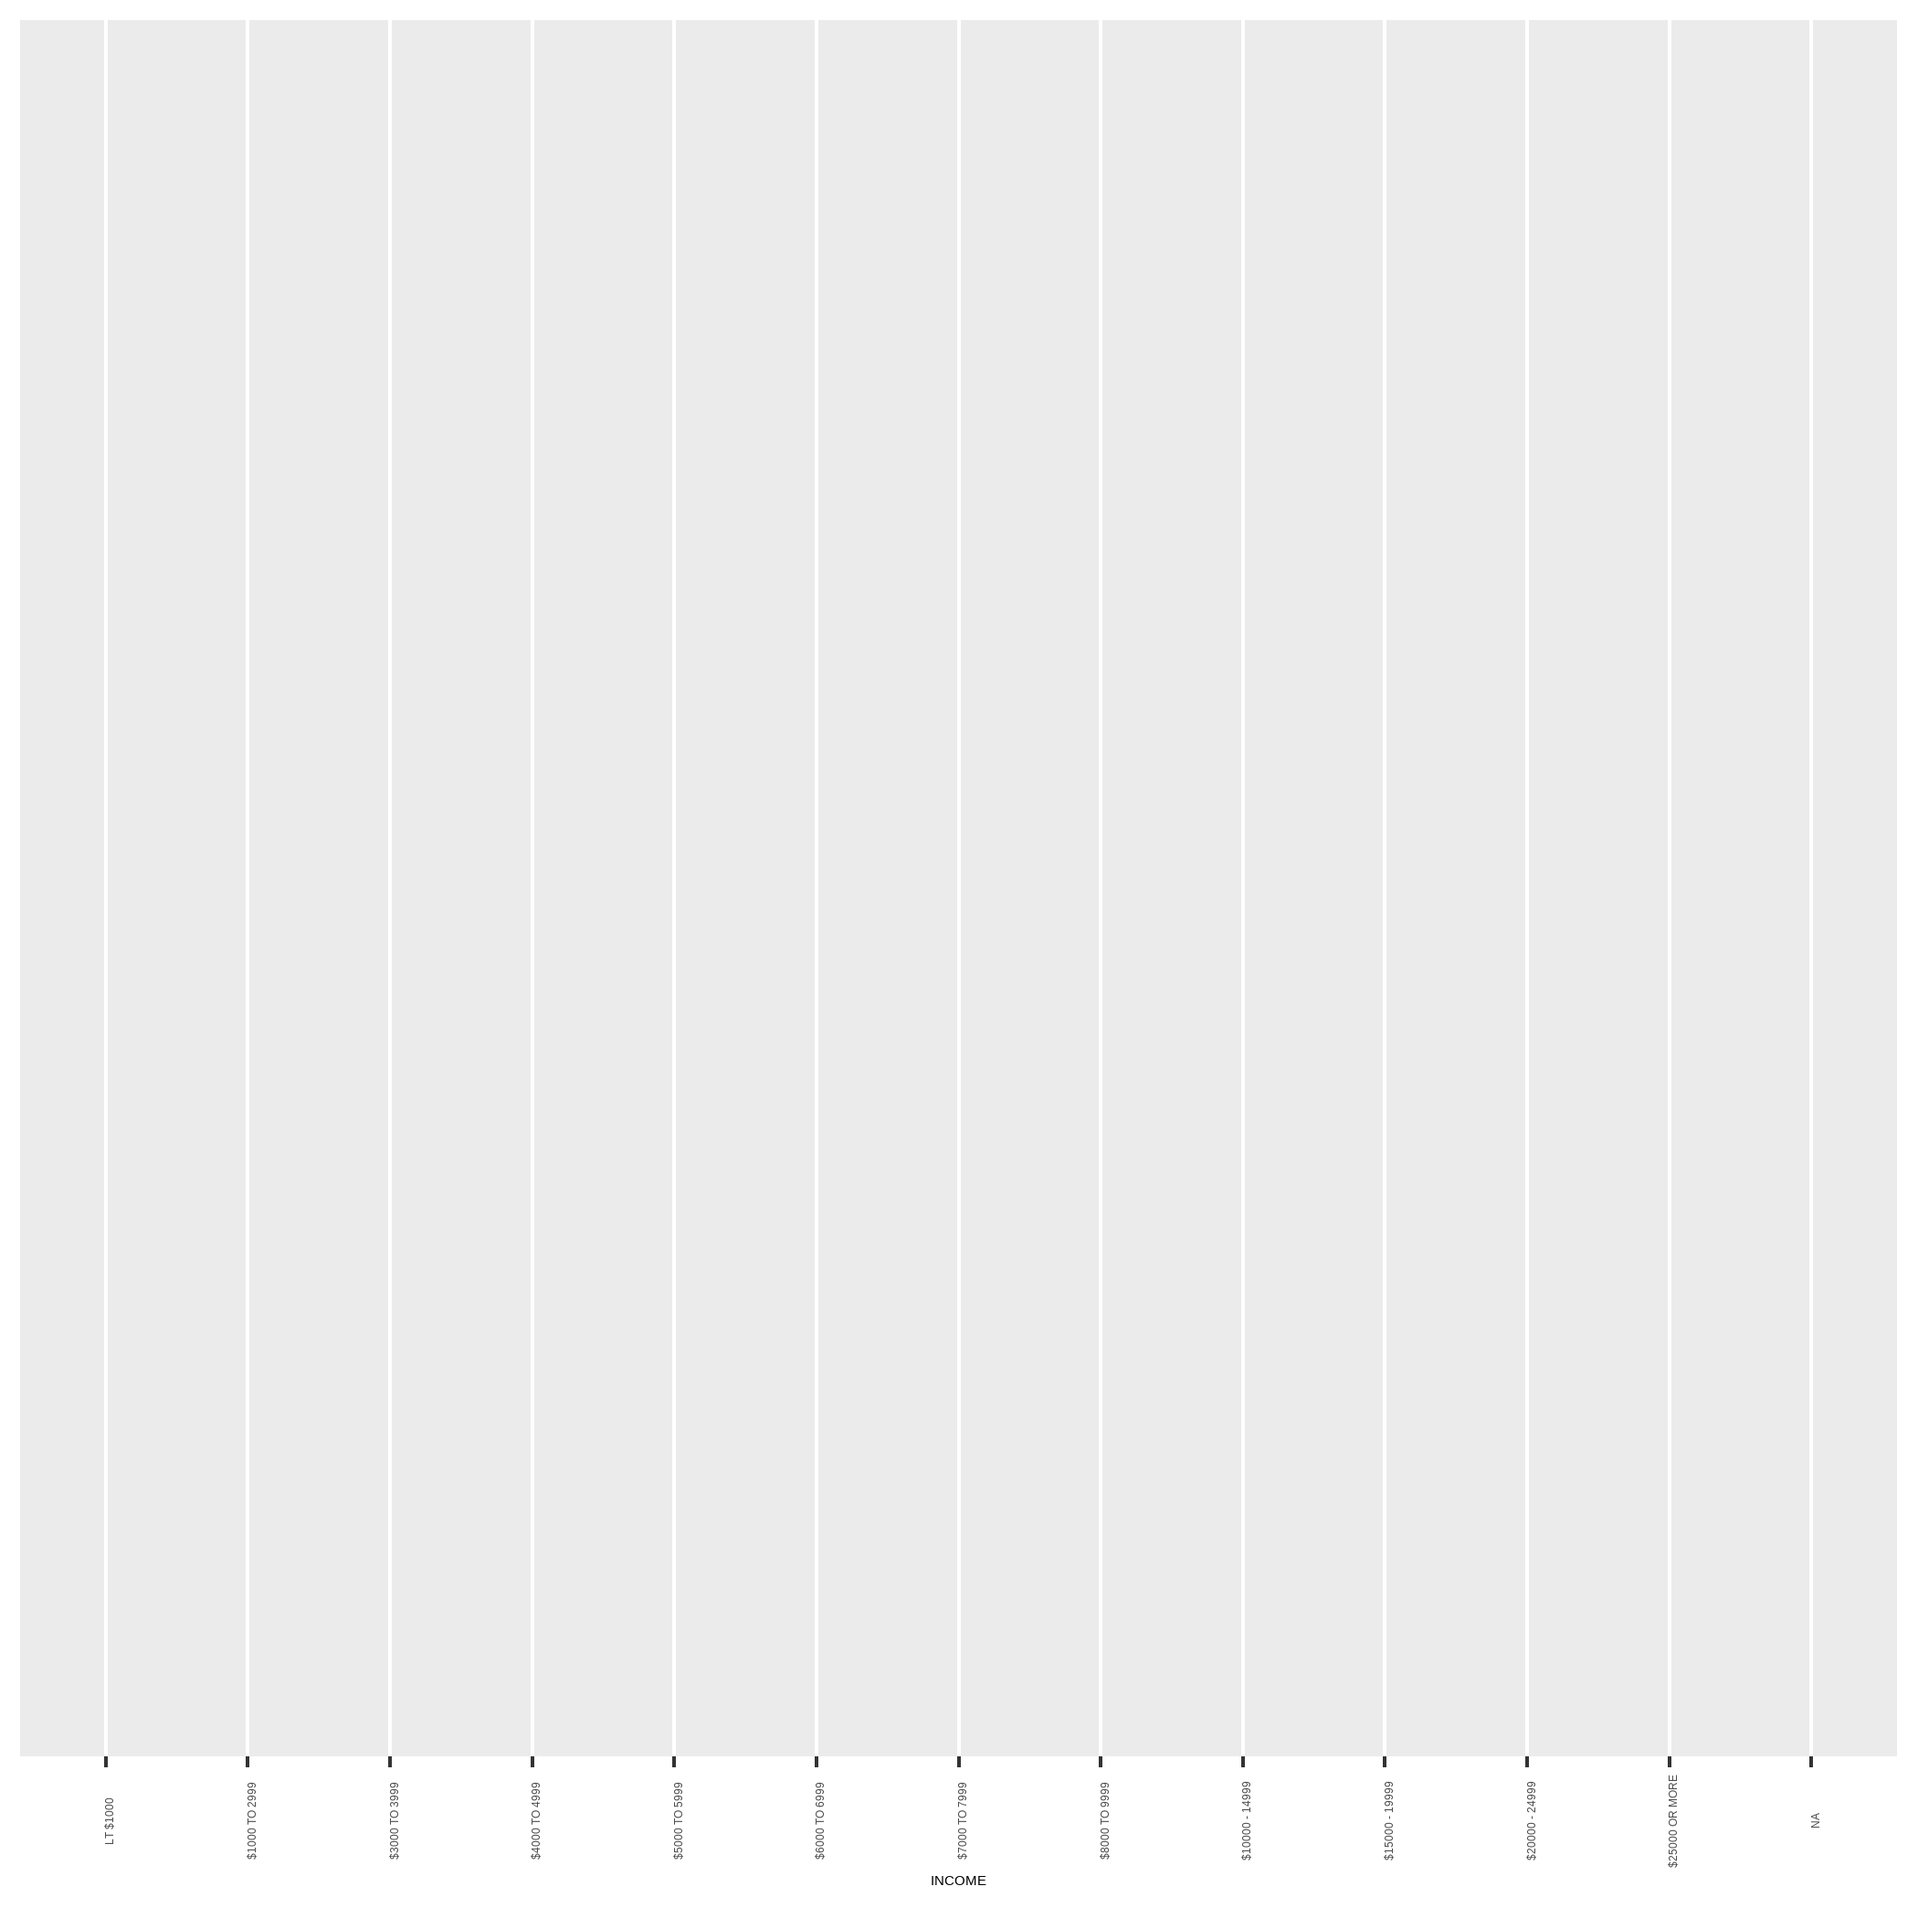
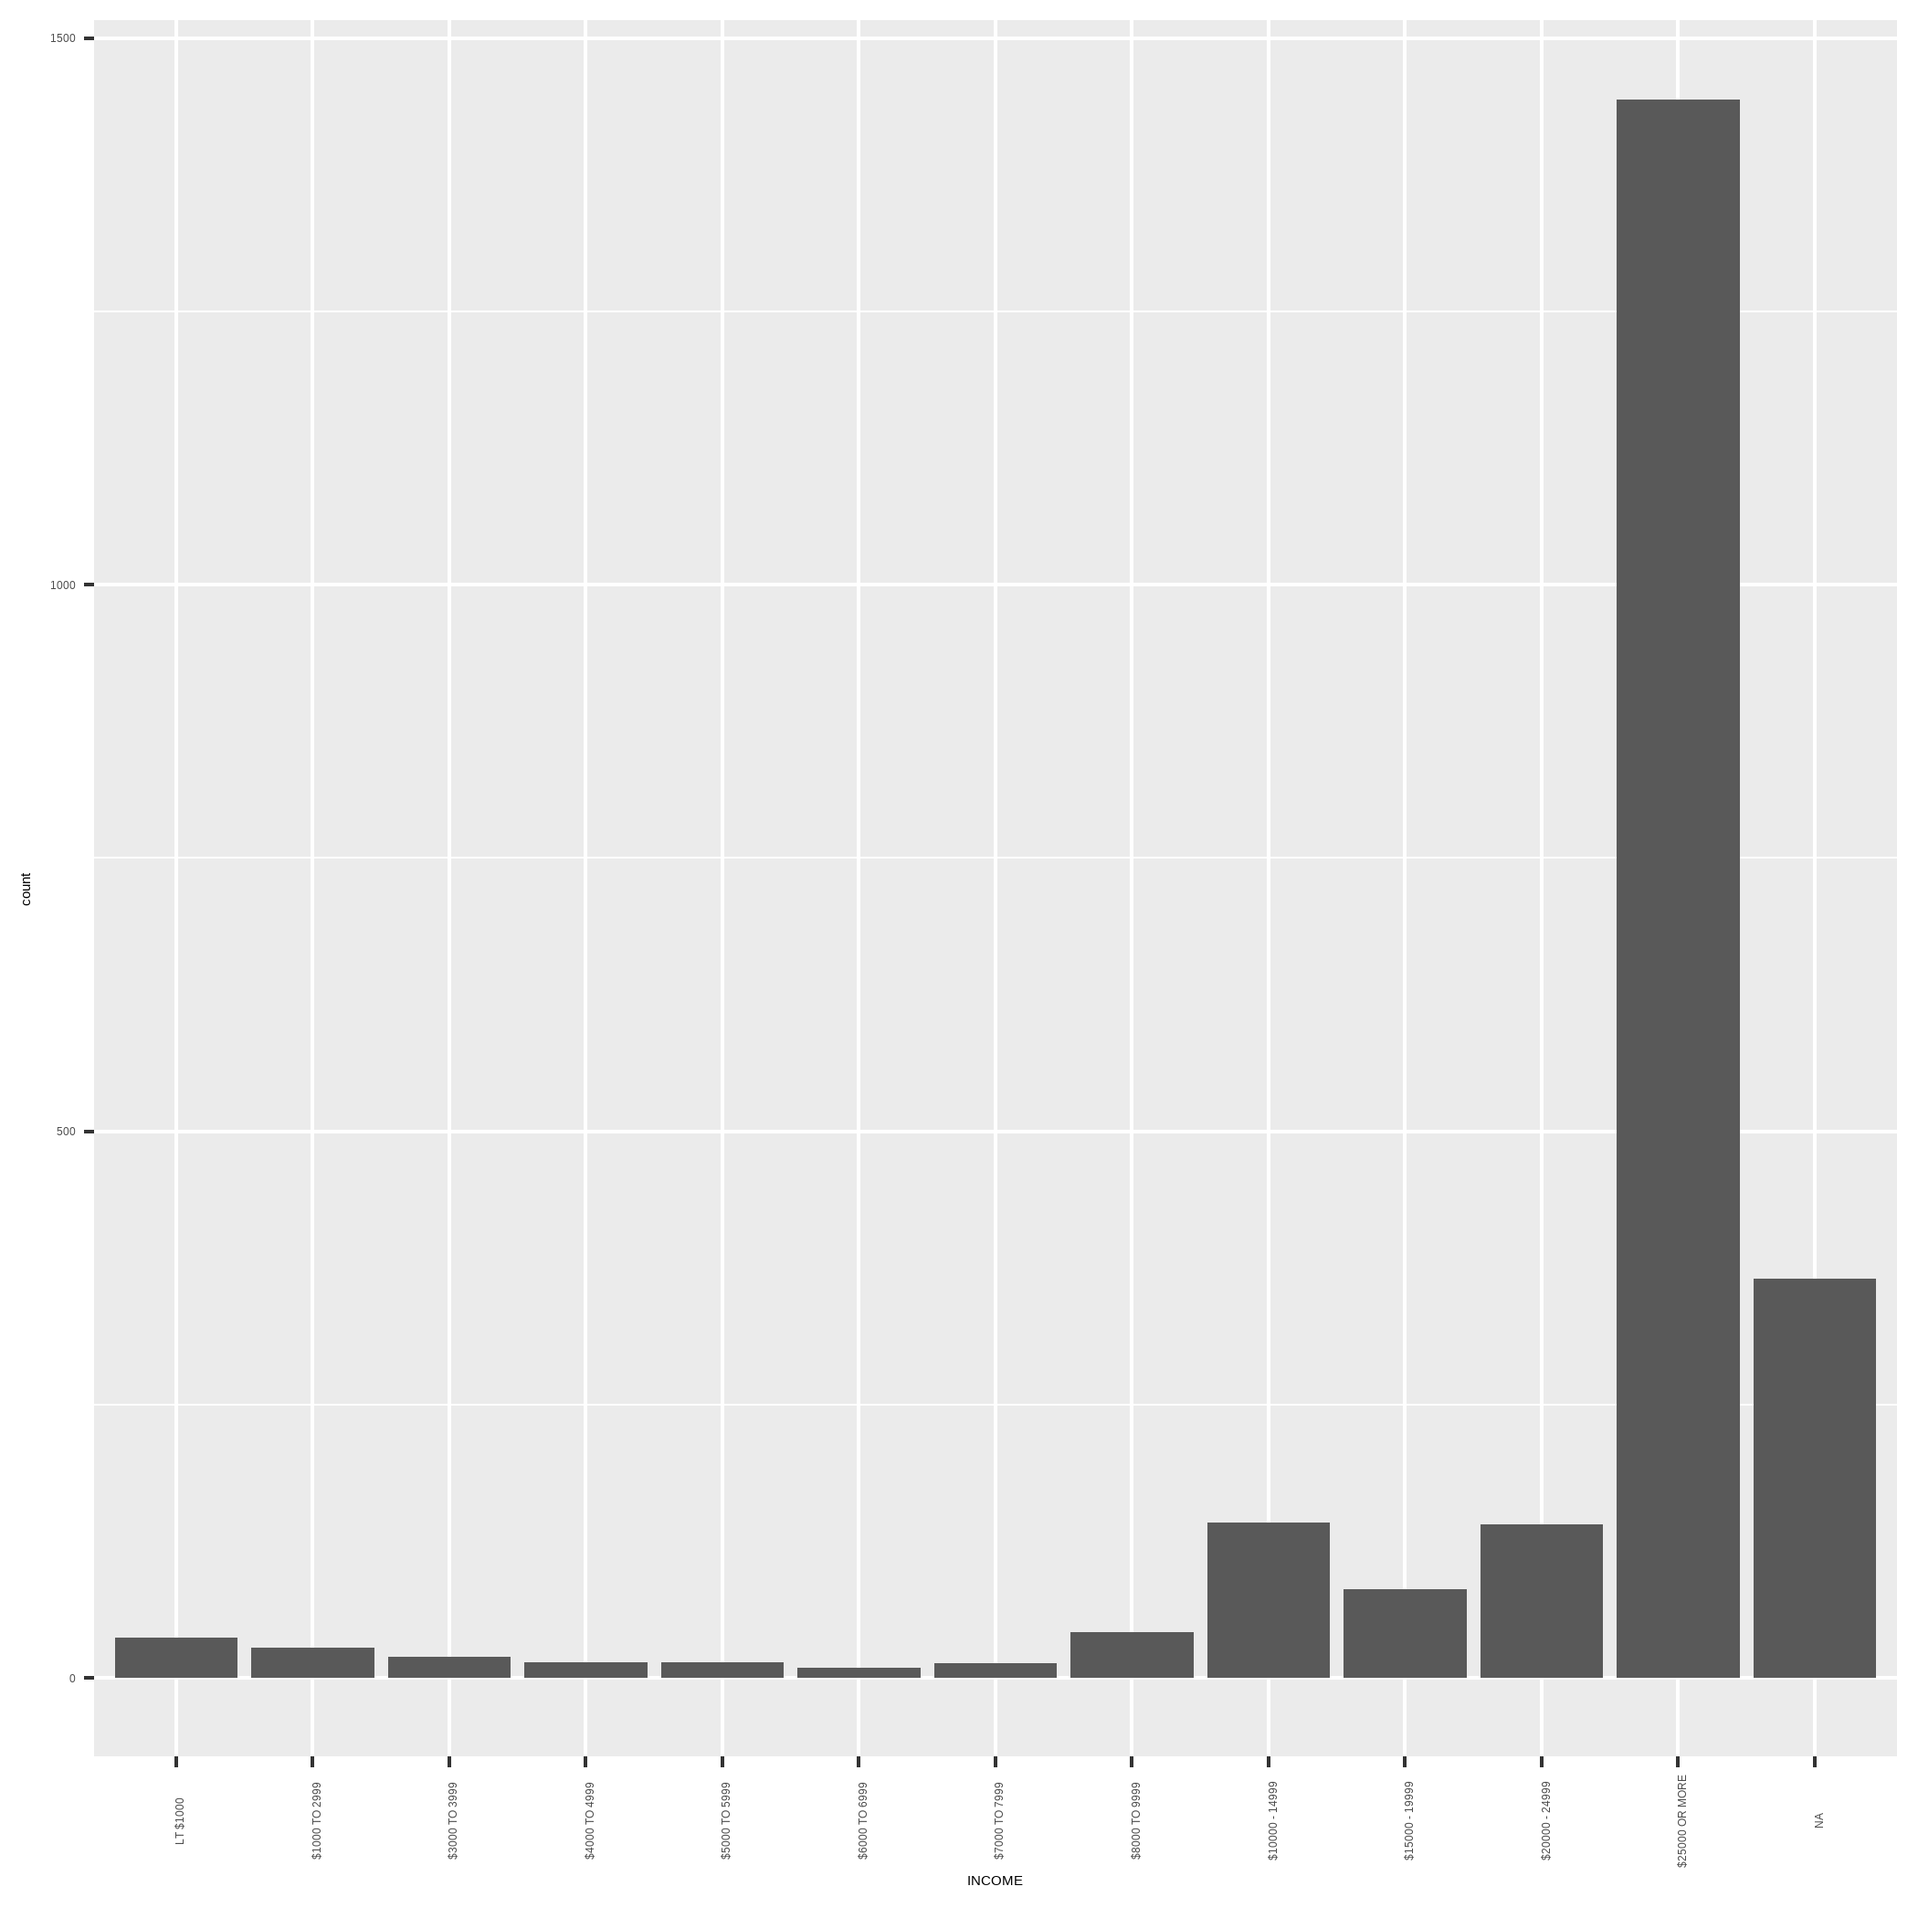
Draft 07

diff --git a/Presentation_CatVar_forecats.html b/Presentation_CatVar_forecats.html
@@ -56,6 +56,7 @@ class: inverse, center, middle
       * [`levels()`](#levels)
       * [`fct_reorder`](#reorder)
       * [`fct_collapse`](#collapse)
+      * [`fct_lump`](#lump)
  
 6. [Summary](#summary)
  ]
@@ -68,7 +69,7 @@ name: introduction
 
 By now, we already know that **data cleaning** is important. We have realized that treating certain variables is not always so straightforward, and we worry because we know that an inadequate treatment of variables can impact our analysis. 
 
-####  - How many times have you struggle when finding **categorical data** in your datasets? 😭
+####  - How many times have you struggle when finding **categorical data** in your datasets? 😿
 
 &lt;br&gt;
 &lt;div align="center"&gt;
@@ -159,7 +160,7 @@ name: factors
 
 ---
 
-# Factors 🔡
+# Factors 🔠
 
 ### What are factors?
 
@@ -312,13 +313,13 @@ R&gt; factor(country_sample, levels = members)
 ```
 
 ```
-##  [1] Denmark     Austria     Lithuania   Cyprus      Czechia     Italy      
-##  [7] Belgium     Romania     Luxembourg  Austria     Luxembourg  Netherlands
-## [13] France      Denmark     Ireland     Lithuania   Cyprus      Sweden     
-## [19] Slovenia    Netherlands Bulgaria    Germany     Luxembourg  Slovakia   
-## [25] Bulgaria    Spain       France      Austria     Croatia     Denmark    
-## [31] Estonia     France      Poland      Slovakia    Netherlands Bulgaria   
-## [37] Denmark     Estonia     Denmark     Slovakia   
+##  [1] Lithuania   Finland     Estonia     Croatia     Lithuania   Austria    
+##  [7] Slovenia    Netherlands Slovenia    Romania     Cyprus      Greece     
+## [13] Bulgaria    Luxembourg  Hungary     Poland      Malta       Latvia     
+## [19] Germany     Spain       Portugal    Hungary     Poland      Latvia     
+## [25] Poland      Slovenia    Ireland     Belgium     Luxembourg  Latvia     
+## [31] Hungary     Lithuania   Poland      Estonia     Greece      Greece     
+## [37] Slovakia    Slovenia    Netherlands Portugal   
 ## 27 Levels: Belgium France Germany Italy Luxembourg Netherlands ... Croatia
 ```
 
@@ -380,20 +381,20 @@ R&gt; fct_count(country_sample, head(12))
 ```
 
 ```
-## # A tibble: 21 x 2
+## # A tibble: 22 x 2
 ##    f               n
 ##    &lt;fct&gt;       &lt;int&gt;
-##  1 Denmark         5
-##  2 Austria         3
-##  3 Bulgaria        3
-##  4 France          3
-##  5 Luxembourg      3
-##  6 Netherlands     3
-##  7 Slovakia        3
-##  8 Cyprus          2
-##  9 Estonia         2
-## 10 Lithuania       2
-## # ... with 11 more rows
+##  1 Poland          4
+##  2 Slovenia        4
+##  3 Greece          3
+##  4 Hungary         3
+##  5 Latvia          3
+##  6 Lithuania       3
+##  7 Estonia         2
+##  8 Luxembourg      2
+##  9 Netherlands     2
+## 10 Portugal        2
+## # ... with 12 more rows
 ```
 ---
 name: levels
@@ -471,10 +472,6 @@ name: reorder
 #### Let's see how it works.
 
 
-```
-## png 
-##   2
-```
 
 &lt;img src="./marital.png" style="display: block; margin: auto;" /&gt;
 ---
@@ -497,10 +494,6 @@ R&gt; df_marriage &lt;- df %&gt;%
 
 .pull-right[
 
-```
-## png 
-##   2
-```
 
 &lt;img src="./marriage.png" style="display: block; margin: auto;" /&gt;
 ]
@@ -518,41 +511,50 @@ name: collapse
 * This is particularly useful when a factor has too many levels, especially if the level of granularity is too high.
 
 *  **`fct_collapse`** collapses levels into manually defined groups.
+*  **`fct_lump`** lumps levels that do not appear in the top n = number of times into "Other"
+
+---
+# Change the value of levels:  *fct_collapse()*
 
 #### Consider the income variable from our GSS as an example:
 
 
-```r
-R&gt; df %&gt;% 
-+   ggplot(aes(x = INCOME)) +
-+   theme(axis.text.x = element_text(angle = 90))
-```
 
-&lt;img src="Presentation_CatVar_forecats_files/figure-html/unnamed-chunk-11-1.png" style="display: block; margin: auto;" /&gt;
+&lt;img src="./income.png" style="display: block; margin: auto;" /&gt;
+
 ---
 # Change the value of levels:  *fct_collapse()*
 
 #### It makes more sense to recategorize the data according to income classes so we use **`fct_collapse`**:
-
+.pull-left-wide[
 
 ```r
-R&gt; df &lt;- df %&gt;%
+R&gt; df_brackets &lt;- df %&gt;%
 +   mutate(income_brackets = fct_collapse(INCOME, 
-+                                         "low" = c("LT $1000", "$1000 TO 2999", "$3000 TO 3999",
-+                                                   "$4000 TO 4999", "$5000 TO 5999", "$6000 TO 6999",
-+                                                   "$7000 TO 7999", "$8000 TO 9999", "$10000 - 14999"),
-+                                         "middle" = c("$15000 - 19999", "$20000 - 24999"),
-+                                         "high" = c("$25000 OR MORE")))
-R&gt; 
-R&gt; df %&gt;% ggplot(aes(x = income_brackets)) +
-+     geom_bar()
++     "low" = c("LT $1000", "$1000 TO 2999", "$3000 TO 3999",
++     "$4000 TO 4999", "$5000 TO 5999", "$6000 TO 6999",
++     "$7000 TO 7999", "$8000 TO 9999", "$10000 - 14999"),
++     "middle" = c("$15000 - 19999", "$20000 - 24999"),
++     "high" = c("$25000 OR MORE")))
 ```
 
-&lt;img src="Presentation_CatVar_forecats_files/figure-html/unnamed-chunk-12-1.png" style="display: block; margin: auto;" /&gt;
+]
+
+.pull-right-small[
+
+
+&lt;img src="./brackets.png" width="30%" height="30%" style="display: block; margin: auto;" /&gt;
+
+```
+]
+
 ---
-# Change the value of levels:  *fct_collapse()*
+name: lump
+
+# Change the value of levels:  *fct_lump()*
 
 #### OR other groupings of data ranges:
+
 
 
 
@@ -560,11 +562,28 @@ R&gt; df %&gt;% ggplot(aes(x = income_brackets)) +
 
 ---
 
-# Change the value of levels:  *fct_collapse()*
+# Change the value of levels:  *fct_lump()*
 
 #### Lumping levels that appear below a minimum frequency together into a single factor
 
+.pull-left[
+
+```r
+R&gt; df_relig_new &lt;- df %&gt;%
++   mutate(religion = fct_lump(RELIG, n = 4)) %&gt;%
++   group_by(religion) %&gt;%
++   ggplot(aes(x = religion)) +
++   geom_bar() +
++   theme(axis.text.x = element_text(angle = 90))
+```
+]
+
+.pull-right[
+
+
 &lt;img src="./relig2.png" style="display: block; margin: auto;" /&gt;
+]
+
 ---
 class: inverse, center, middle
 name: summary
@@ -575,7 +594,7 @@ name: summary
 
 ---
 
-# Summary 📄
+# Summary 📃
 
 * Factors are R's data structure for categorical data.
 
@@ -592,10 +611,9 @@ name: summary
 * The **`forcats`** package provides useful tools to solve problems with factors.
 
 ---
-# Summary 📝
+# Summary 📜
 
 ### Summary of **`forcats`** functions.
-
 &lt;br&gt;
 
 
@@ -613,19 +631,19 @@ name: summary
    &lt;td style="text-align:left;"&gt; Creates an ordered factor with assigned levels &lt;/td&gt;
   &lt;/tr&gt;
   &lt;tr&gt;
-   &lt;td style="text-align:left;"&gt; as_factor &lt;/td&gt;
+   &lt;td style="text-align:left;"&gt; as_factor() &lt;/td&gt;
    &lt;td style="text-align:left;"&gt; Converts an input to a factor &lt;/td&gt;
   &lt;/tr&gt;
   &lt;tr&gt;
-   &lt;td style="text-align:left;"&gt; fct_relevel &lt;/td&gt;
+   &lt;td style="text-align:left;"&gt; fct_relevel() &lt;/td&gt;
    &lt;td style="text-align:left;"&gt; Reorders de the levels of a factor &lt;/td&gt;
   &lt;/tr&gt;
   &lt;tr&gt;
-   &lt;td style="text-align:left;"&gt; fct_count &lt;/td&gt;
+   &lt;td style="text-align:left;"&gt; fct_count() &lt;/td&gt;
    &lt;td style="text-align:left;"&gt; Counts entries in a factor &lt;/td&gt;
   &lt;/tr&gt;
   &lt;tr&gt;
-   &lt;td style="text-align:left;"&gt; fct_unique &lt;/td&gt;
+   &lt;td style="text-align:left;"&gt; fct_unique() &lt;/td&gt;
    &lt;td style="text-align:left;"&gt; Removes duplicates &lt;/td&gt;
   &lt;/tr&gt;
   &lt;tr&gt;
@@ -633,12 +651,16 @@ name: summary
    &lt;td style="text-align:left;"&gt; Returns the levels of a factor &lt;/td&gt;
   &lt;/tr&gt;
   &lt;tr&gt;
-   &lt;td style="text-align:left;"&gt; fct_reorder &lt;/td&gt;
+   &lt;td style="text-align:left;"&gt; fct_reorder() &lt;/td&gt;
    &lt;td style="text-align:left;"&gt; Reorders a factor based on the value of another variable &lt;/td&gt;
   &lt;/tr&gt;
   &lt;tr&gt;
-   &lt;td style="text-align:left;"&gt; fct_collapse &lt;/td&gt;
+   &lt;td style="text-align:left;"&gt; fct_collapse() &lt;/td&gt;
    &lt;td style="text-align:left;"&gt; Collapses levels into defined groups &lt;/td&gt;
+  &lt;/tr&gt;
+  &lt;tr&gt;
+   &lt;td style="text-align:left;"&gt; fct_lump() &lt;/td&gt;
+   &lt;td style="text-align:left;"&gt; Lumps together factor levels into "Other" &lt;/td&gt;
   &lt;/tr&gt;
 &lt;/tbody&gt;
 &lt;/table&gt;
